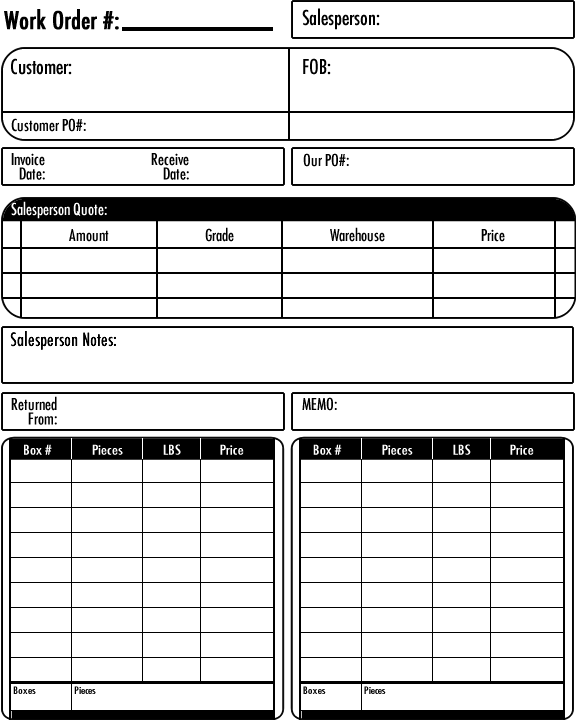
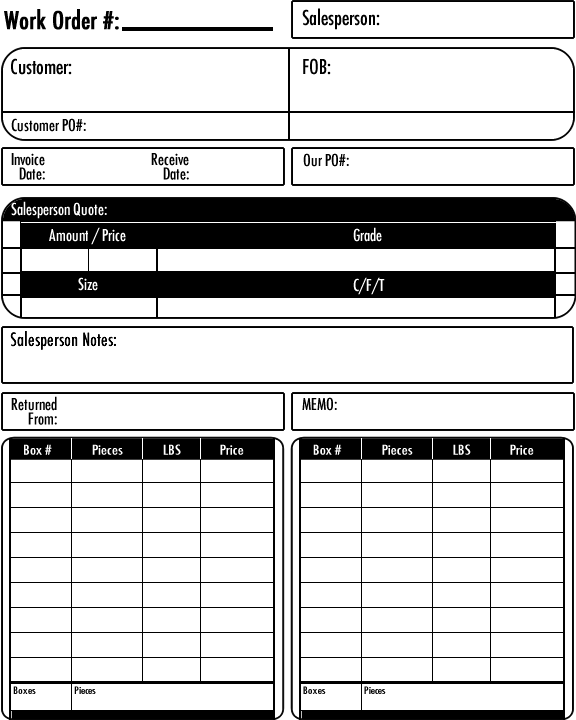
Added customer po fields, redo worksheet and placement

Changed region(s): [[0.0, 0.3056, 1.0, 0.4278]]

diff --git a/public/stylesheets/custom.css b/public/stylesheets/custom.css
@@ -115,9 +115,9 @@ tr.footer{font-weight:bold;}
 
 
 
-	#newsale_form{display:none;height:497px;}
-	#newsale_placeholder{height:485px;}
-#newsale_form #customer_auto, #sale_fob, #sale_notes{width:200px;}
+	#newsale_form{display:none;height:535px;}
+	#newsale_placeholder{height:559px;}
+#newsale_form #customer_auto, #sale_fob, #sale_notes, #sale_customer_po{width:200px;}
 #newsale_form #sale_amount, #sale_price, #sale_size_pref, #sale_cotefr{width:90px;}
 
 #sale_amount_container{float:left;}
@@ -136,21 +136,20 @@ tr.footer{font-weight:bold;}
 .worksheet_container{page-break-before: always;margin:auto;width:576px;height:720px;background-image:url('../images/Worksheet_template.png');}
 .worksheet_content{position:relative;color:black;}
 
-.worksheet_content h2{color:black;size:20px;}
+.worksheet_content h2{color:black;font-size:14px;}
 
 .wk_id{position:absolute;top:-14px;left:125px;}
-.wk_user{position:absolute;top:-14px;left:385px;}
+.wk_user{position:absolute;top:-13px;left:385px;}
 .wk_customer{position:absolute;top:60px;left:10px;}
+.wk_customer_po{position:absolute;top:94px;left:95px;}
 .wk_fob{position:absolute;top:60px;left:300px;}
-.wk_amount{position:absolute;top:230px;left:75px;}
+.wk_amount{position:absolute;top:230px;left:50px;}
 .wk_ratgrade{position:absolute;top:230px;left:185px;}
 .wk_warehouse{position:absolute;top:230px;left:310px;}
-.wk_price{position:absolute;top:230px;left:465px;}
-.wk_notes{position:absolute;top:335px;left:10px;}
-.wk_size_pref_label{position:absolute;top:275px;left:116px; font-size:15px;}
-.wk_size_pref{position:absolute;top:275px;left:190px;font-size:15px;}
-.wk_cft_label{position:absolute;top:275px;left:380px; font-size:15px;}
-.wk_cft{position:absolute;top:275px;left:455px;font-size:15px;}
+.wk_price{position:absolute;top:230px;left:98px;}
+.wk_notes{position:absolute;top:335px;left:10px;font-size:12px;}
+.wk_size_pref{position:absolute;top:275px;left:70px;font-size:15px;}
+.wk_cft{position:absolute;top:275px;left:340px;font-size:15px;}
 
 
 

diff --git a/db/schema.rb b/db/schema.rb
@@ -10,7 +10,7 @@
 #
 # It's strongly recommended to check this file into your version control system.
 
-ActiveRecord::Schema.define(:version => 20101130200328) do
+ActiveRecord::Schema.define(:version => 20101209200901) do
 
   create_table "announcements", :force => true do |t|
     t.string   "title"
@@ -152,6 +152,7 @@ ActiveRecord::Schema.define(:version => 20101130200328) do
     t.string   "size_pref"
     t.string   "cotefr"
     t.boolean  "printed",      :default => false
+    t.string   "customer_po"
   end
 
   create_table "slugs", :force => true do |t|

diff --git a/db/migrate/20101209200901_add_customer_po_to_sale.rb b/db/migrate/20101209200901_add_customer_po_to_sale.rb
@@ -1,0 +1,9 @@
+class AddCustomerPoToSale < ActiveRecord::Migration
+  def self.up
+    add_column :sales, :customer_po, :string
+  end
+
+  def self.down
+    remove_column :sales, :customer_po
+  end
+end
